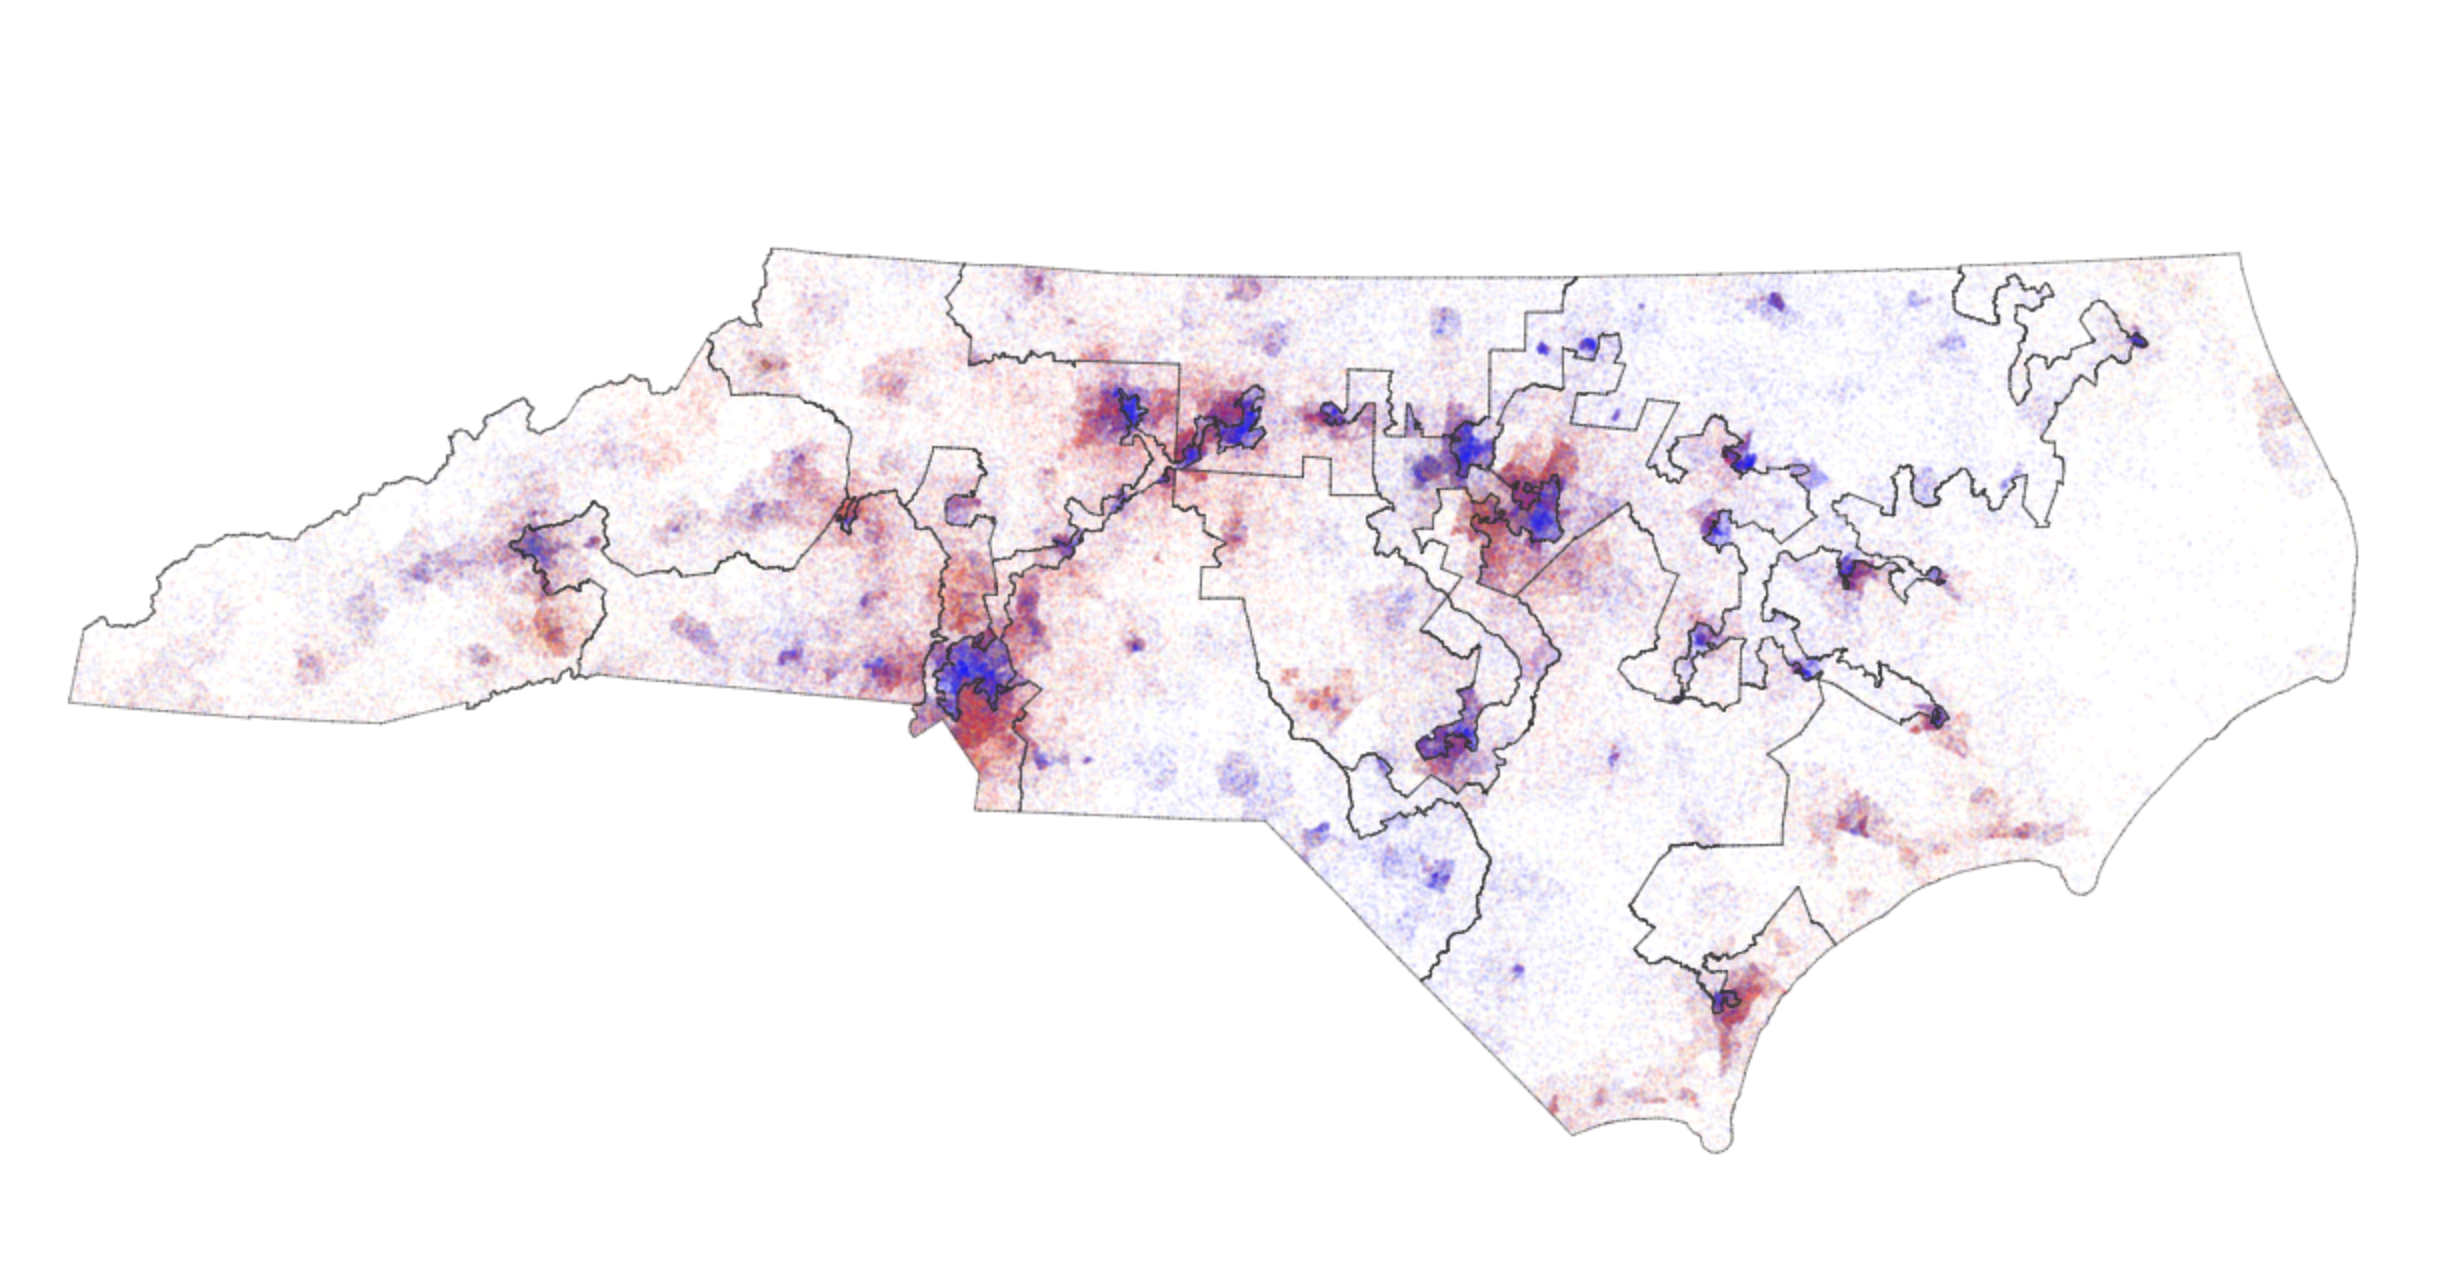
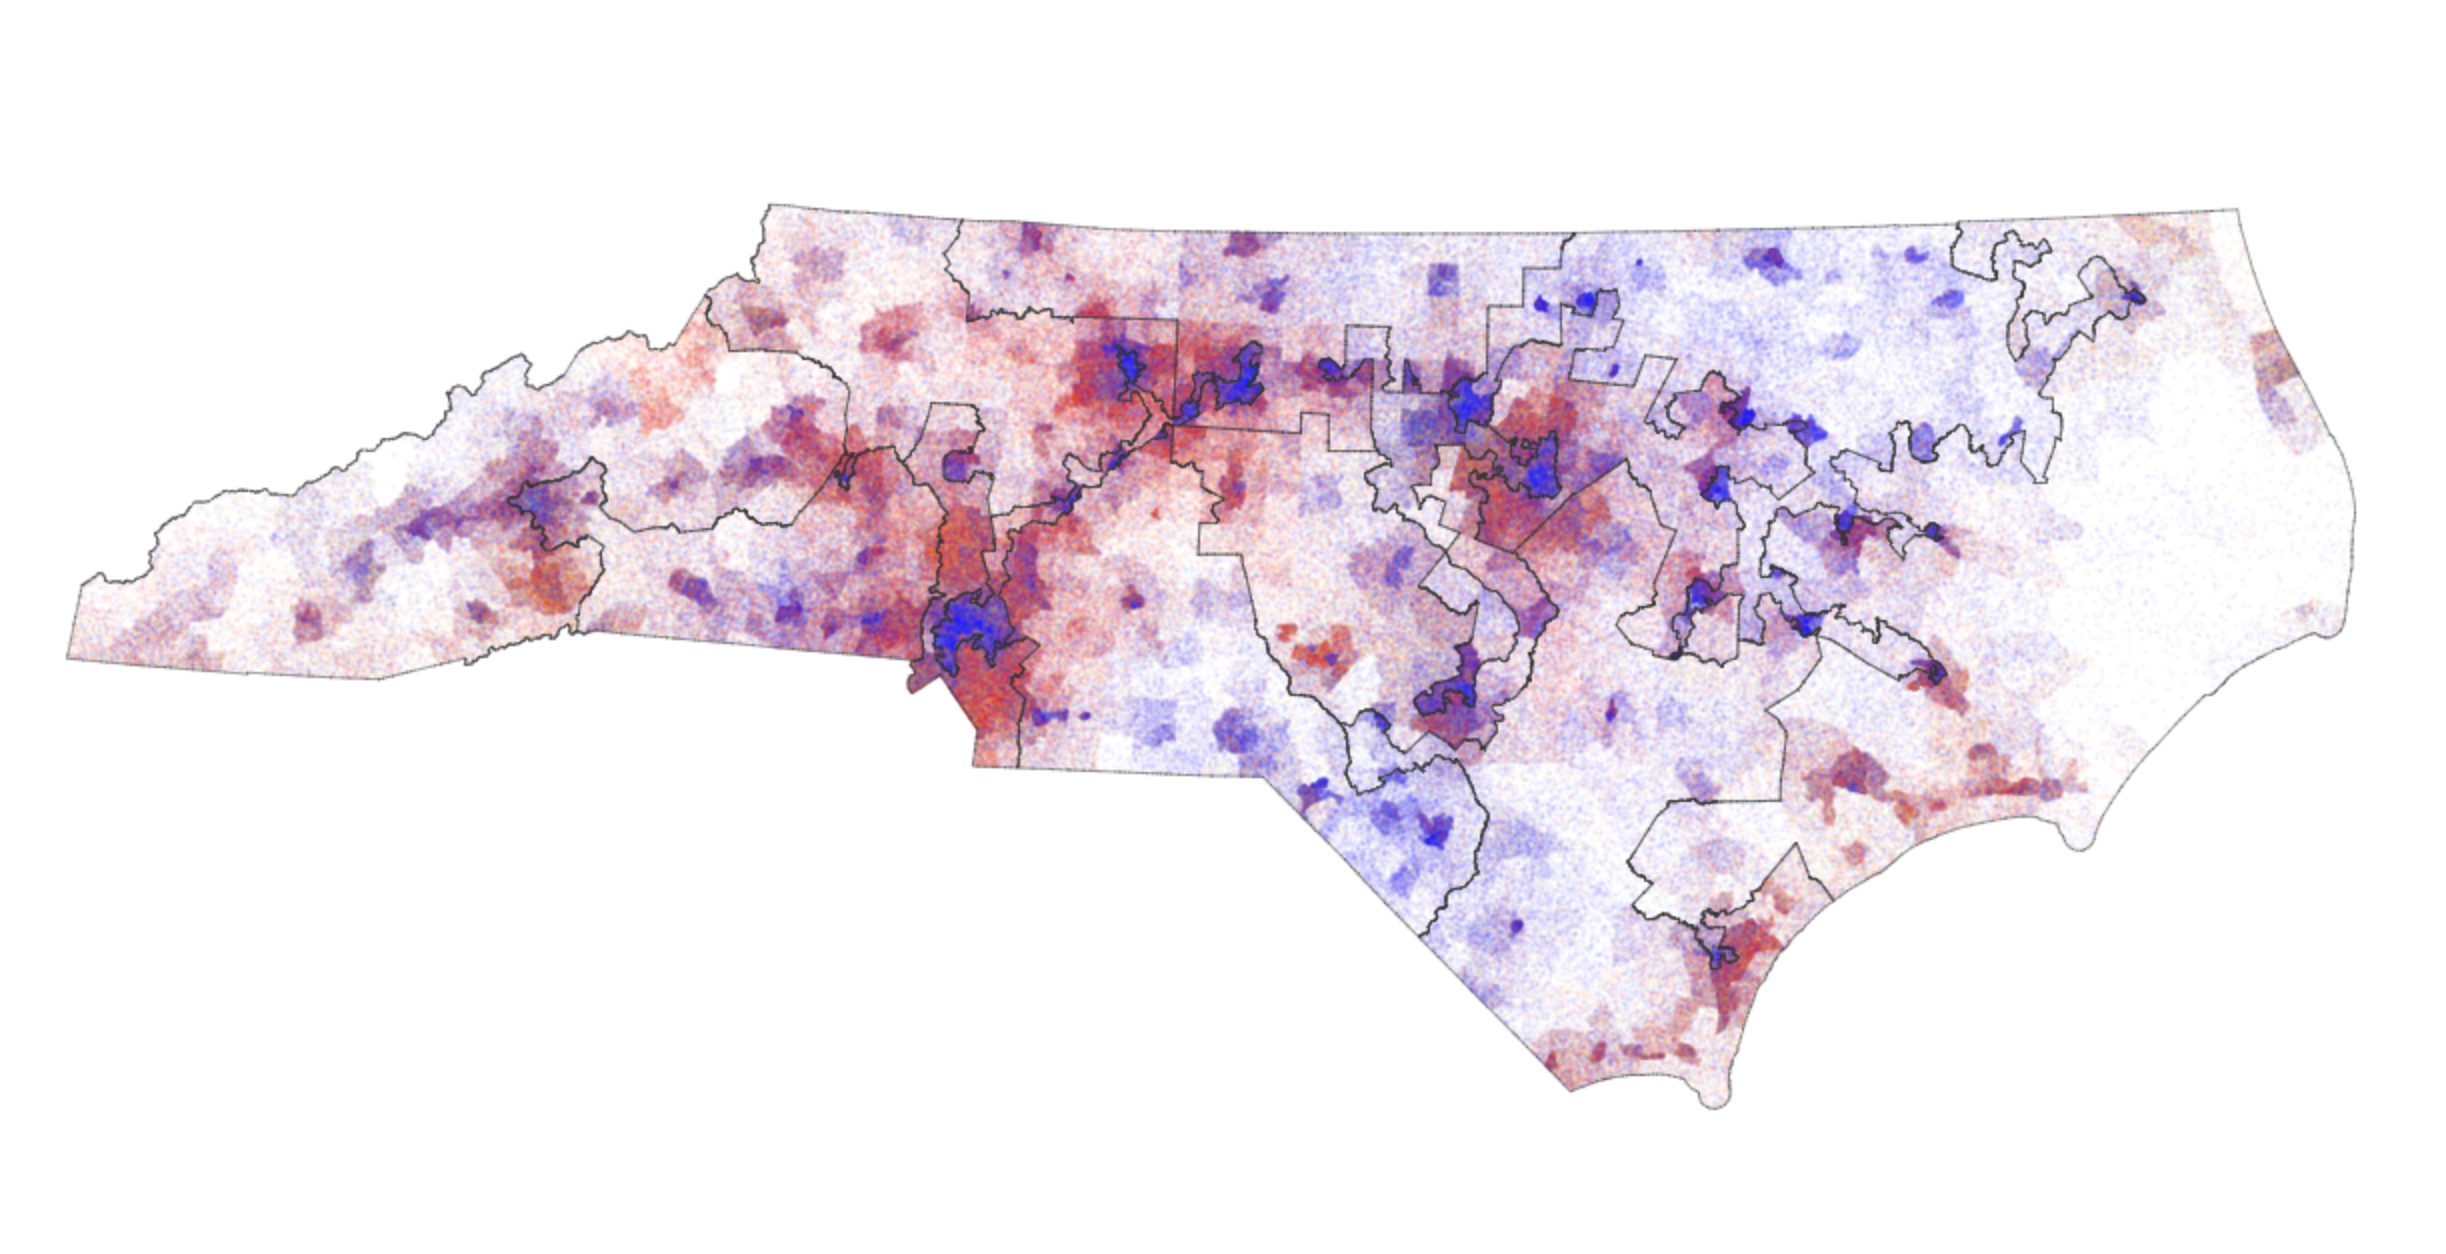
better 2013 map

Changed region(s): [[0.0311, 0.1555, 0.9656, 0.9019], [0.9033, 0.4665, 0.9656, 0.5598]]

diff --git a/exploration/index.js b/exploration/index.js
@@ -17,8 +17,8 @@ function start ([precincts, districts]) {
   const scale = 8000
   const translate = [723, 691]
   const settings = {
-    countDivisor: 20,
-    alpha: 5,
+    countDivisor: 5,
+    alpha: 4,
     democrat: true,
     libertarian: true,
     republican: true,
